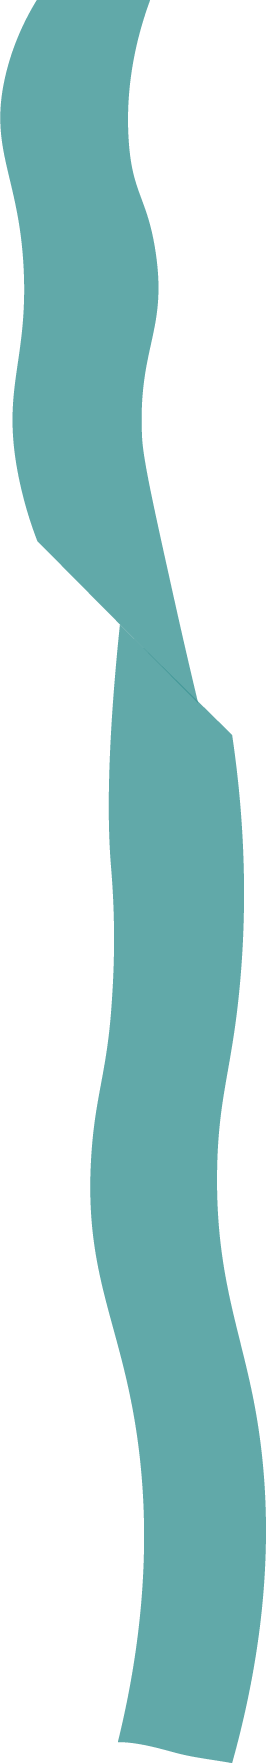
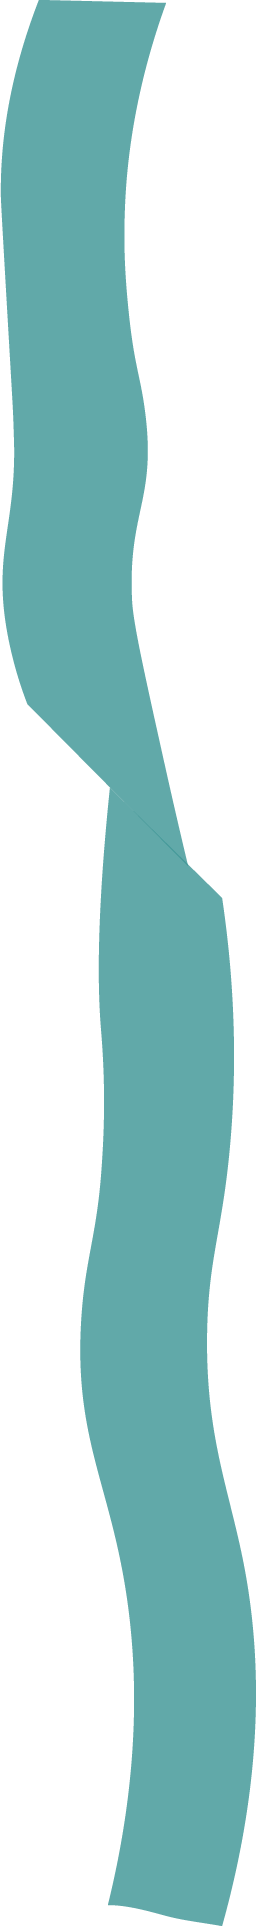
Minor Changes

diff --git a/index.html b/index.html
@@ -5,6 +5,12 @@
     <meta name="viewport" content="width=device-width, initial-scale=1, maximum-scale=1">
     <title>BITSELK</title>
 
+    <meta property="og:title" content="selk" />
+    <meta property="og:type" content="website" />
+    <meta property="og:url" content="https://bitselk.github.io/" />
+    <meta property="og:description" content="going home today" />
+    <meta name="theme-color" content="#FA905D">
+
     <!-- GOOGLE FONTS <3 -->
     <link rel="preconnect" href="https://fonts.googleapis.com">
     <link rel="preconnect" href="https://fonts.gstatic.com" crossorigin>
@@ -32,11 +38,11 @@
     </div>
 
     <div class="wrapper who-i-am">
-        <h2 class="title center-hor">who <i>is</i>&nbsp <span>selk</span></h2>
+        <h2 class="title center-hor">who <i>is</i>&nbsp <span>{{selk}}</span></h2>
         <div class="tabs">
             <div class="tab-left">game developer</div>
             <div class="tab-right">3d modeler</div>
-            <div class="tab-left">chickenwire ghost</div>
+            <div class="tab-left obfuscated">chickenwire ghost</div>
         </div>
     </div>
     <div class="divider">
@@ -44,9 +50,10 @@
             <path d="M321.39,56.44c58-10.79,114.16-30.13,172-41.86,82.39-16.72,168.19-17.73,250.45-.39C823.78,31,906.67,72,985.66,92.83c70.05,18.48,146.53,26.09,214.34,3V0H0V27.35A600.21,600.21,0,0,0,321.39,56.44Z" class="shape-fill"></path>
         </svg>
     </div>
-
     
     <!-- Bootstrap JS Bundle with Popper -->
     <!-- <script src="https://cdn.jsdelivr.net/npm/bootstrap@5.0.2/dist/js/bootstrap.bundle.min.js" integrity="sha384-MrcW6ZMFYlzcLA8Nl+NtUVF0sA7MsXsP1UyJoMp4YLEuNSfAP+JcXn/tWtIaxVXM" crossorigin="anonymous"></script> -->
 </body>
+
+<script src="main.js"></script>
 </html>

diff --git a/css/style.css b/css/style.css
@@ -32,7 +32,10 @@ body {
 #floral-waterfall {
     width: calc(4vw + 65px);
     z-index: 2;
-    transform: translate(50%, -47%);
+    transform: translate(50%, -53%);
+
+    -webkit-mask-image: -webkit-gradient(linear, center top, center bottom, 
+    from(rgba(0,0,0,1)), to(rgba(0,0,0,0)));
 }
 
 .wrapper {
@@ -58,17 +61,20 @@ body {
     user-select: none;
 }
 
-.who-i-am {
-    background-color: var(--bk-color);
-    position: relative;
-    height: 700px;
-}
-.who-i-am .title {
+.title {
     font-family: 'Arvo', serif;
     font-size: calc(3vw + 15px);
     overflow-x: visible;
     top: calc(60px - 5vw);
+    position: absolute;
+}
 
+.who-i-am {
+    background-color: var(--bk-color);
+    position: relative;
+    height: 750px;
+}
+.who-i-am .title {
     background: white;
     color: var(--bk-color);
     background-clip: text;
@@ -82,6 +88,20 @@ body {
     background-clip: text;
     -webkit-text-fill-color: transparent;
     -webkit-text-stroke: 0px white;
+}
+
+.projects {
+    position: relative;
+    background-color: white;
+    z-index: 1;
+    height: 750px;
+}
+.projects .title {  
+    background: black;
+    color: rgb(232, 217, 192);
+    background-clip: text;
+    -webkit-background-clip: text;
+    -webkit-text-stroke: 4px transparent;
 }
 
 .divider {
@@ -126,6 +146,10 @@ body {
     overflow: hidden;
     display: block;
     white-space: nowrap;
+}
+.inverse .tab-right, .inverse .tab-left {
+    color: rgb(234, 234, 234);
+    background-color: black;
 }
 .tab-left { float: left; text-align: right; border-top-right-radius: 10px; border-bottom-right-radius: 10px; }
 .tab-right { float: right; text-align: left; border-top-left-radius: 10px; border-bottom-left-radius: 10px; }

diff --git a/main.js b/main.js
@@ -1,0 +1,18 @@
+let obfuscated = document.querySelectorAll(".obfuscated");
+var possible = "!@#$%^&*()_=-`~";
+
+function randText(length) {
+    var text = "";
+  
+    for (var i = 0; i < length; i++)
+      text += possible.charAt(Math.floor(Math.random() * possible.length));
+    
+    return text;
+}
+  
+
+setInterval(function() {
+    obfuscated.forEach(obj => {
+        obj.textContent = randText(obj.textContent.length);
+    })
+}, 40);
